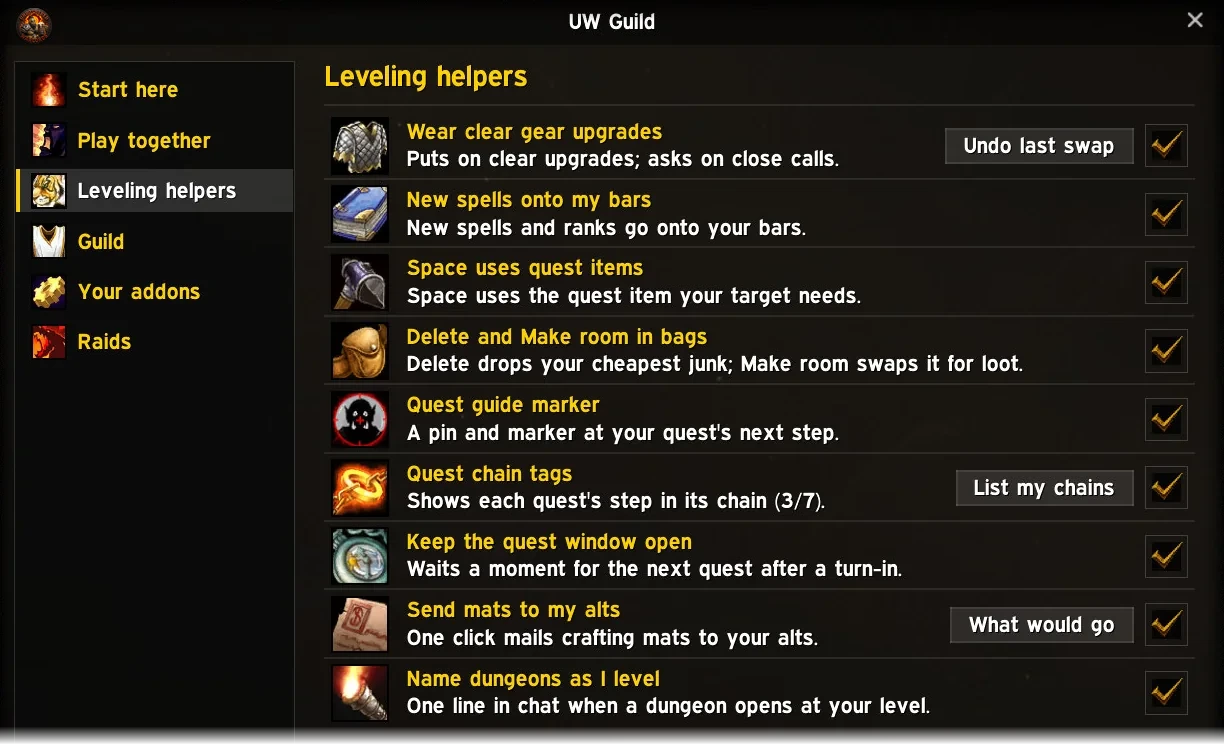
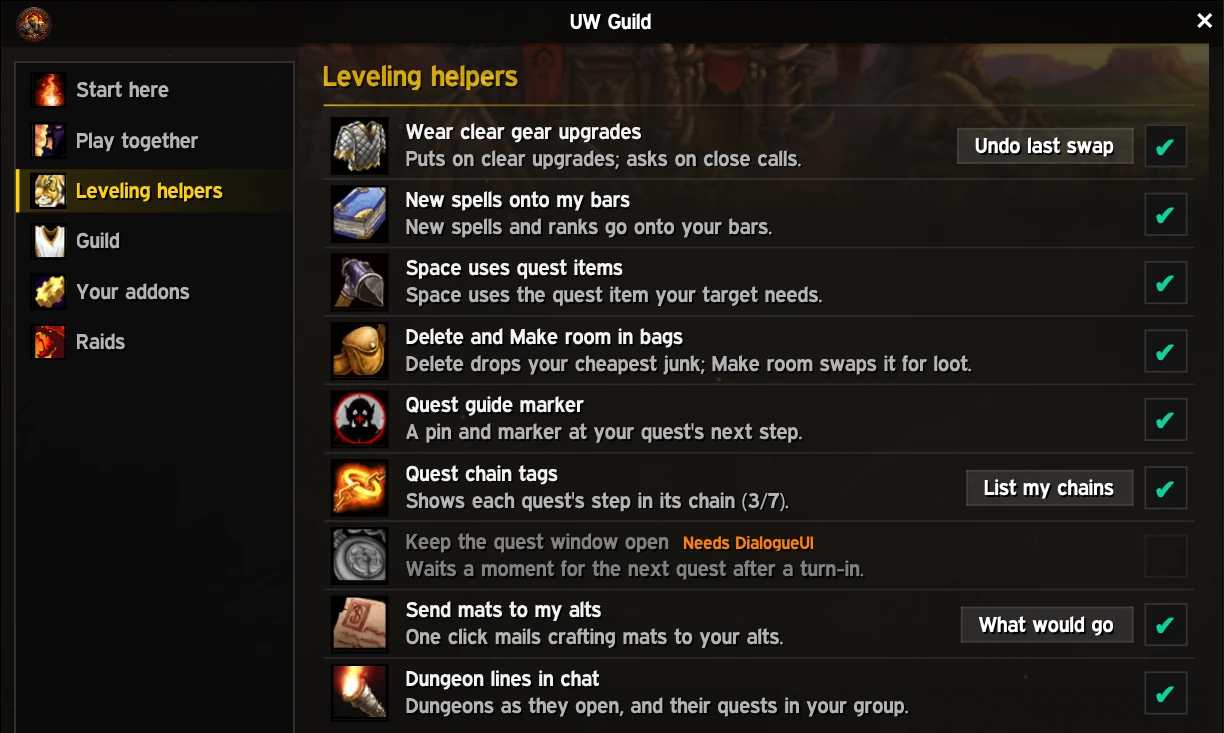
Site for the running build

diff --git a/guide.html b/guide.html
@@ -52,7 +52,7 @@
   <!-- The in-game window's twin (Handbook.lua): its pages in its order on the left, and each row under its own
        name, so a guildmate finds the same thing in both places. An entry's id is its key in ns.HANDBOOK, so an
        officer can paste one feature: unbotheredwarlords.github.io/guide#call. bot/tests/test_site_guide.py holds the
-       two together. The pictures are Louis's own captures (15 Nov 2026), cut to the window. -->
+       two together. The pictures are the addon's own window drawn at Louis's 4K EllesmereUI scale (docs/site.md), cut to the window. -->
   <div class="guide">
     <nav class="guide-rail" aria-label="Pages of the addon">
       <ul>
@@ -66,8 +66,8 @@
     <div class="guide-pages">
       <section class="guide-page" id="play" aria-labelledby="play-h">
         <h2 id="play-h">Play together</h2>
-        <button class="shot-link" type="button" popovertarget="zoom-play" aria-label="Show larger: The UW Guild window on its Play together page: Guildmates near my level, Call a group, Dungeon quests, Meet point and Thank a guildmate, each with its button."><img class="guide-shot" src="img/guide-play.webp" width="1224" height="470" loading="lazy" decoding="async" alt="The UW Guild window on its Play together page: Guildmates near my level, Call a group, Dungeon quests, Meet point and Thank a guildmate, each with its button."><span class="zoom-badge" aria-hidden="true"><svg class="icon" data-icon="zoom" viewBox="0 0 24 24" fill="none" stroke="currentColor" stroke-width="1.75" stroke-linecap="round" stroke-linejoin="round" aria-hidden="true" focusable="false"><circle cx="11" cy="11" r="8"/><path d="m21 21-4.35-4.35"/><path d="M11 8v6"/><path d="M8 11h6"/></svg></span></button>
-        <div class="zoom" id="zoom-play" popover role="dialog" aria-label="The UW Guild window on its Play together page: Guildmates near my level, Call a group, Dungeon quests, Meet point and Thank a guildmate, each with its button."><button class="zoom-hit" type="button" popovertarget="zoom-play" popovertargetaction="hide" aria-label="Close the larger picture"><span class="zoom-close" aria-hidden="true"><svg class="icon" data-icon="close" viewBox="0 0 24 24" fill="none" stroke="currentColor" stroke-width="1.75" stroke-linecap="round" stroke-linejoin="round" aria-hidden="true" focusable="false"><path d="M18 6 6 18"/><path d="m6 6 12 12"/></svg></span><span class="zoom-pan"><img loading="lazy" decoding="async" class="zoom-img" src="img/guide-play.webp" width="1224" height="470" alt="The UW Guild window on its Play together page: Guildmates near my level, Call a group, Dungeon quests, Meet point and Thank a guildmate, each with its button."></span></button></div>
+        <button class="shot-link" type="button" popovertarget="zoom-play" aria-label="Show larger: The UW Guild window on its Play together page: Guildmates near my level, Call a group, Dungeon quests, Meet point, Thank a guildmate, Ask a guild enchanter and Count my alts as me."><img class="guide-shot" src="img/guide-play.webp" width="1224" height="598" loading="lazy" decoding="async" alt="The UW Guild window on its Play together page: Guildmates near my level, Call a group, Dungeon quests, Meet point, Thank a guildmate, Ask a guild enchanter and Count my alts as me."><span class="zoom-badge" aria-hidden="true"><svg class="icon" data-icon="zoom" viewBox="0 0 24 24" fill="none" stroke="currentColor" stroke-width="1.75" stroke-linecap="round" stroke-linejoin="round" aria-hidden="true" focusable="false"><circle cx="11" cy="11" r="8"/><path d="m21 21-4.35-4.35"/><path d="M11 8v6"/><path d="M8 11h6"/></svg></span></button>
+        <div class="zoom" id="zoom-play" popover role="dialog" aria-label="The UW Guild window on its Play together page: Guildmates near my level, Call a group, Dungeon quests, Meet point, Thank a guildmate, Ask a guild enchanter and Count my alts as me."><button class="zoom-hit" type="button" popovertarget="zoom-play" popovertargetaction="hide" aria-label="Close the larger picture"><span class="zoom-close" aria-hidden="true"><svg class="icon" data-icon="close" viewBox="0 0 24 24" fill="none" stroke="currentColor" stroke-width="1.75" stroke-linecap="round" stroke-linejoin="round" aria-hidden="true" focusable="false"><path d="M18 6 6 18"/><path d="m6 6 12 12"/></svg></span><span class="zoom-pan"><img loading="lazy" decoding="async" class="zoom-img" src="img/guide-play.webp" width="1224" height="598" alt="The UW Guild window on its Play together page: Guildmates near my level, Call a group, Dungeon quests, Meet point, Thank a guildmate, Ask a guild enchanter and Count my alts as me."></span></button></div>
         <ul class="features">
           <li class="feature" id="near">
             <span class="path-icon game" aria-hidden="true"><img src="img/icons/near.webp" width="60" height="60" alt=""></span>
@@ -132,8 +132,8 @@
       <section class="guide-page" id="level" aria-labelledby="level-h">
         <h2 id="level-h">Leveling helpers</h2>
         <p class="guide-intro">Each helper has an off switch.</p>
-        <button class="shot-link" type="button" popovertarget="zoom-level" aria-label="Show larger: The UW Guild window on its Leveling helpers page: nine helpers, each with a tick box to switch it off."><img class="guide-shot" src="img/guide-level.webp" width="1224" height="745" loading="lazy" decoding="async" alt="The UW Guild window on its Leveling helpers page: nine helpers, each with a tick box to switch it off."><span class="zoom-badge" aria-hidden="true"><svg class="icon" data-icon="zoom" viewBox="0 0 24 24" fill="none" stroke="currentColor" stroke-width="1.75" stroke-linecap="round" stroke-linejoin="round" aria-hidden="true" focusable="false"><circle cx="11" cy="11" r="8"/><path d="m21 21-4.35-4.35"/><path d="M11 8v6"/><path d="M8 11h6"/></svg></span></button>
-        <div class="zoom" id="zoom-level" popover role="dialog" aria-label="The UW Guild window on its Leveling helpers page: nine helpers, each with a tick box to switch it off."><button class="zoom-hit" type="button" popovertarget="zoom-level" popovertargetaction="hide" aria-label="Close the larger picture"><span class="zoom-close" aria-hidden="true"><svg class="icon" data-icon="close" viewBox="0 0 24 24" fill="none" stroke="currentColor" stroke-width="1.75" stroke-linecap="round" stroke-linejoin="round" aria-hidden="true" focusable="false"><path d="M18 6 6 18"/><path d="m6 6 12 12"/></svg></span><span class="zoom-pan"><img loading="lazy" decoding="async" class="zoom-img" src="img/guide-level.webp" width="1224" height="745" alt="The UW Guild window on its Leveling helpers page: nine helpers, each with a tick box to switch it off."></span></button></div>
+        <button class="shot-link" type="button" popovertarget="zoom-level" aria-label="Show larger: The UW Guild window on its Leveling helpers page: nine helpers, each with a tick box to switch it off."><img class="guide-shot" src="img/guide-level.webp" width="1224" height="733" loading="lazy" decoding="async" alt="The UW Guild window on its Leveling helpers page: nine helpers, each with a tick box to switch it off."><span class="zoom-badge" aria-hidden="true"><svg class="icon" data-icon="zoom" viewBox="0 0 24 24" fill="none" stroke="currentColor" stroke-width="1.75" stroke-linecap="round" stroke-linejoin="round" aria-hidden="true" focusable="false"><circle cx="11" cy="11" r="8"/><path d="m21 21-4.35-4.35"/><path d="M11 8v6"/><path d="M8 11h6"/></svg></span></button>
+        <div class="zoom" id="zoom-level" popover role="dialog" aria-label="The UW Guild window on its Leveling helpers page: nine helpers, each with a tick box to switch it off."><button class="zoom-hit" type="button" popovertarget="zoom-level" popovertargetaction="hide" aria-label="Close the larger picture"><span class="zoom-close" aria-hidden="true"><svg class="icon" data-icon="close" viewBox="0 0 24 24" fill="none" stroke="currentColor" stroke-width="1.75" stroke-linecap="round" stroke-linejoin="round" aria-hidden="true" focusable="false"><path d="M18 6 6 18"/><path d="m6 6 12 12"/></svg></span><span class="zoom-pan"><img loading="lazy" decoding="async" class="zoom-img" src="img/guide-level.webp" width="1224" height="733" alt="The UW Guild window on its Leveling helpers page: nine helpers, each with a tick box to switch it off."></span></button></div>
         <ul class="features">
           <li class="feature" id="gear">
             <span class="path-icon game" aria-hidden="true"><img src="img/icons/gear.webp" width="60" height="60" alt=""></span>
@@ -215,8 +215,8 @@
       <section class="guide-page" id="guild" aria-labelledby="guild-h">
         <h2 id="guild-h">Guild</h2>
         <p class="guide-intro">On a Bothered Peons character, your tools work the same. Recruiting and kit changes stay on your Unbothered Warlords characters. Mains and alts from both guilds share one in-game chat: <a href="https://www.worldofwarcraft.com/invite/BlegM4rfype?region=US&amp;faction=Horde" rel="noopener">join Warlords and Peons</a>.</p>
-        <button class="shot-link" type="button" popovertarget="zoom-guild" aria-label="Show larger: The UW Guild window on its Guild page: nine rows from the Welcome window to Discord, each with its button."><img class="guide-shot" src="img/guide-guild.webp" width="1224" height="745" loading="lazy" decoding="async" alt="The UW Guild window on its Guild page: nine rows from the Welcome window to Discord, each with its button."><span class="zoom-badge" aria-hidden="true"><svg class="icon" data-icon="zoom" viewBox="0 0 24 24" fill="none" stroke="currentColor" stroke-width="1.75" stroke-linecap="round" stroke-linejoin="round" aria-hidden="true" focusable="false"><circle cx="11" cy="11" r="8"/><path d="m21 21-4.35-4.35"/><path d="M11 8v6"/><path d="M8 11h6"/></svg></span></button>
-        <div class="zoom" id="zoom-guild" popover role="dialog" aria-label="The UW Guild window on its Guild page: nine rows from the Welcome window to Discord, each with its button."><button class="zoom-hit" type="button" popovertarget="zoom-guild" popovertargetaction="hide" aria-label="Close the larger picture"><span class="zoom-close" aria-hidden="true"><svg class="icon" data-icon="close" viewBox="0 0 24 24" fill="none" stroke="currentColor" stroke-width="1.75" stroke-linecap="round" stroke-linejoin="round" aria-hidden="true" focusable="false"><path d="M18 6 6 18"/><path d="m6 6 12 12"/></svg></span><span class="zoom-pan"><img loading="lazy" decoding="async" class="zoom-img" src="img/guide-guild.webp" width="1224" height="745" alt="The UW Guild window on its Guild page: nine rows from the Welcome window to Discord, each with its button."></span></button></div>
+        <button class="shot-link" type="button" popovertarget="zoom-guild" aria-label="Show larger: The UW Guild window on its Guild page: nine rows from the Welcome window to Discord, each with its button."><img class="guide-shot" src="img/guide-guild.webp" width="1224" height="733" loading="lazy" decoding="async" alt="The UW Guild window on its Guild page: nine rows from the Welcome window to Discord, each with its button."><span class="zoom-badge" aria-hidden="true"><svg class="icon" data-icon="zoom" viewBox="0 0 24 24" fill="none" stroke="currentColor" stroke-width="1.75" stroke-linecap="round" stroke-linejoin="round" aria-hidden="true" focusable="false"><circle cx="11" cy="11" r="8"/><path d="m21 21-4.35-4.35"/><path d="M11 8v6"/><path d="M8 11h6"/></svg></span></button>
+        <div class="zoom" id="zoom-guild" popover role="dialog" aria-label="The UW Guild window on its Guild page: nine rows from the Welcome window to Discord, each with its button."><button class="zoom-hit" type="button" popovertarget="zoom-guild" popovertargetaction="hide" aria-label="Close the larger picture"><span class="zoom-close" aria-hidden="true"><svg class="icon" data-icon="close" viewBox="0 0 24 24" fill="none" stroke="currentColor" stroke-width="1.75" stroke-linecap="round" stroke-linejoin="round" aria-hidden="true" focusable="false"><path d="M18 6 6 18"/><path d="m6 6 12 12"/></svg></span><span class="zoom-pan"><img loading="lazy" decoding="async" class="zoom-img" src="img/guide-guild.webp" width="1224" height="733" alt="The UW Guild window on its Guild page: nine rows from the Welcome window to Discord, each with its button."></span></button></div>
         <ul class="features">
           <li class="feature" id="welcome">
             <span class="path-icon game" aria-hidden="true"><img src="img/icons/welcome.webp" width="60" height="60" alt=""></span>
@@ -294,8 +294,8 @@
       </section>
       <section class="guide-page" id="addons" aria-labelledby="addons-h">
         <h2 id="addons-h">Your addons</h2>
-        <button class="shot-link" type="button" popovertarget="zoom-addons" aria-label="Show larger: The UW Guild window on its Your addons page: Addon kit, Guild layout, Class macros and Something broken?"><img class="guide-shot" src="img/guide-addons.webp" width="1224" height="384" loading="lazy" decoding="async" alt="The UW Guild window on its Your addons page: Addon kit, Guild layout, Class macros and Something broken?"><span class="zoom-badge" aria-hidden="true"><svg class="icon" data-icon="zoom" viewBox="0 0 24 24" fill="none" stroke="currentColor" stroke-width="1.75" stroke-linecap="round" stroke-linejoin="round" aria-hidden="true" focusable="false"><circle cx="11" cy="11" r="8"/><path d="m21 21-4.35-4.35"/><path d="M11 8v6"/><path d="M8 11h6"/></svg></span></button>
-        <div class="zoom" id="zoom-addons" popover role="dialog" aria-label="The UW Guild window on its Your addons page: Addon kit, Guild layout, Class macros and Something broken?"><button class="zoom-hit" type="button" popovertarget="zoom-addons" popovertargetaction="hide" aria-label="Close the larger picture"><span class="zoom-close" aria-hidden="true"><svg class="icon" data-icon="close" viewBox="0 0 24 24" fill="none" stroke="currentColor" stroke-width="1.75" stroke-linecap="round" stroke-linejoin="round" aria-hidden="true" focusable="false"><path d="M18 6 6 18"/><path d="m6 6 12 12"/></svg></span><span class="zoom-pan"><img loading="lazy" decoding="async" class="zoom-img" src="img/guide-addons.webp" width="1224" height="384" alt="The UW Guild window on its Your addons page: Addon kit, Guild layout, Class macros and Something broken?"></span></button></div>
+        <button class="shot-link" type="button" popovertarget="zoom-addons" aria-label="Show larger: The UW Guild window on its Your addons page: Addon kit, Guild layout, Class macros, Something broken?, Share addon counts, Fishing sound, Outline and compass, and All switches."><img class="guide-shot" src="img/guide-addons.webp" width="1224" height="665" loading="lazy" decoding="async" alt="The UW Guild window on its Your addons page: Addon kit, Guild layout, Class macros, Something broken?, Share addon counts, Fishing sound, Outline and compass, and All switches."><span class="zoom-badge" aria-hidden="true"><svg class="icon" data-icon="zoom" viewBox="0 0 24 24" fill="none" stroke="currentColor" stroke-width="1.75" stroke-linecap="round" stroke-linejoin="round" aria-hidden="true" focusable="false"><circle cx="11" cy="11" r="8"/><path d="m21 21-4.35-4.35"/><path d="M11 8v6"/><path d="M8 11h6"/></svg></span></button>
+        <div class="zoom" id="zoom-addons" popover role="dialog" aria-label="The UW Guild window on its Your addons page: Addon kit, Guild layout, Class macros, Something broken?, Share addon counts, Fishing sound, Outline and compass, and All switches."><button class="zoom-hit" type="button" popovertarget="zoom-addons" popovertargetaction="hide" aria-label="Close the larger picture"><span class="zoom-close" aria-hidden="true"><svg class="icon" data-icon="close" viewBox="0 0 24 24" fill="none" stroke="currentColor" stroke-width="1.75" stroke-linecap="round" stroke-linejoin="round" aria-hidden="true" focusable="false"><path d="M18 6 6 18"/><path d="m6 6 12 12"/></svg></span><span class="zoom-pan"><img loading="lazy" decoding="async" class="zoom-img" src="img/guide-addons.webp" width="1224" height="665" alt="The UW Guild window on its Your addons page: Addon kit, Guild layout, Class macros, Something broken?, Share addon counts, Fishing sound, Outline and compass, and All switches."></span></button></div>
         <ul class="features">
           <li class="feature" id="kit">
             <span class="path-icon game" aria-hidden="true"><img src="img/icons/kit.webp" width="60" height="60" alt=""></span>

diff --git a/addon.html b/addon.html
@@ -3313,7 +3313,7 @@
       <details id="errors"><summary>Red error text, or something looks wrong</summary><p>Type <code class="nowrap">/uw selftest</code>. It checks the addon and tells you what's off. Still stuck? Whisper any officer in game.</p></details>
       <details id="remove"><summary>Stop automatic updates, or remove the addon</summary><p>Start menu, <strong>UW Guild addon</strong>, <strong>Stop automatic updates</strong>. The addon stays. Or in a command prompt: <code>schtasks /Delete /TN "UW_Guild updater" /F</code>. On Linux: app menu, <strong>Stop UW Guild addon automatic updates</strong>. To remove the addon too, delete the <strong>UW_Guild</strong> folder in AddOns.</p></details>
       <details id="start-fresh"><summary>Start fresh</summary><p>Close WoW, open the <span class="nowrap">_forever_ › WTF</span> folder and search it for <strong>UW_Guild.lua</strong>. Delete every one it finds. UW Guild then starts like a first install on this PC. Your guild rank and Discord link aren't in that file, so they stay. Officers: your copy may hold guild records, so ask in #officer-chat first.</p></details>
-      <details id="verify"><summary>Check the download is ours (optional)</summary><p>The zip's SHA-256 is <code class="hash">22864703abbcae76f8fa6746149d13d1fc67ebe24f6743c6e5d2603056d84f64</code>. On Windows, in PowerShell: <code>Get-FileHash UW_Guild.zip</code>. On a Mac, in Terminal: <code>shasum -a 256 UW_Guild.zip</code>. On Linux: <code>sha256sum UW_Guild.zip</code>. The two should match. This page's build is 490668d (<a href="version.json">version.json</a>).</p></details>
+      <details id="verify"><summary>Check the download is ours (optional)</summary><p>The zip's SHA-256 is <code class="hash">22864703abbcae76f8fa6746149d13d1fc67ebe24f6743c6e5d2603056d84f64</code>. On Windows, in PowerShell: <code>Get-FileHash UW_Guild.zip</code>. On a Mac, in Terminal: <code>shasum -a 256 UW_Guild.zip</code>. On Linux: <code>sha256sum UW_Guild.zip</code>. The two should match. This page's build is 2fdaf86 (<a href="version.json">version.json</a>).</p></details>
     </div>
   </section>
 </main>
